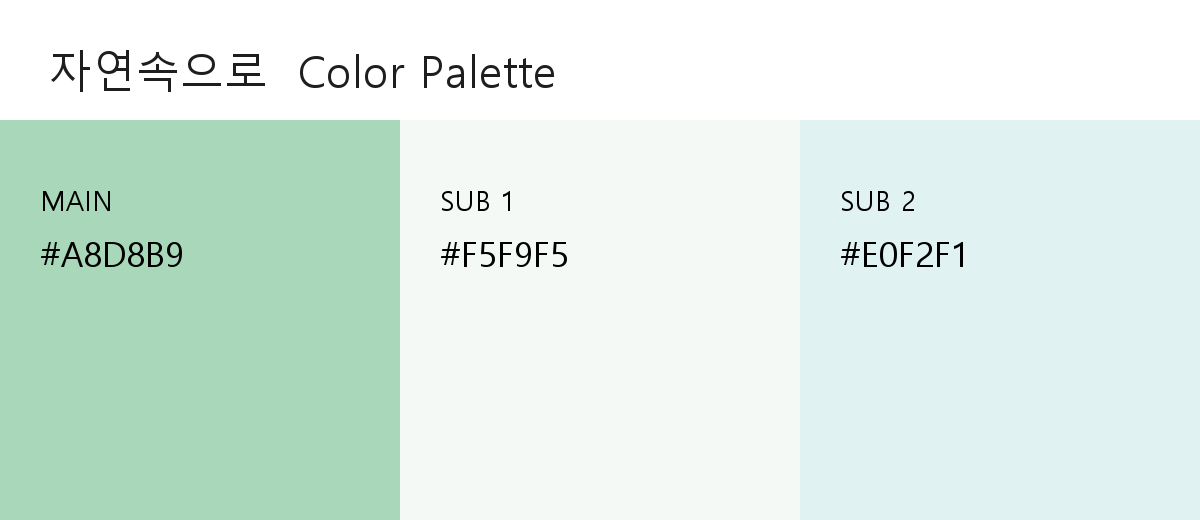
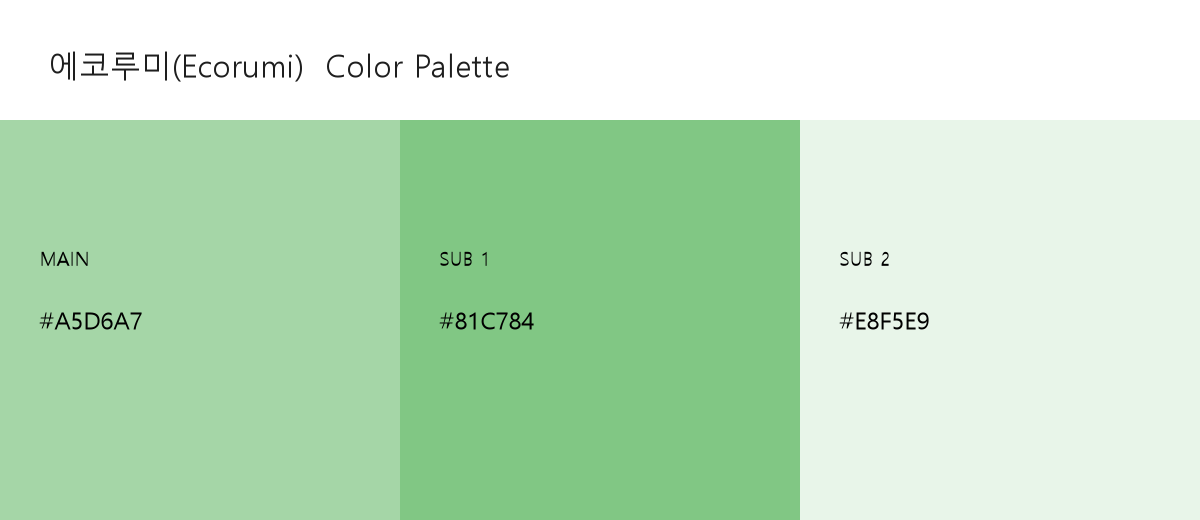
feat: matplotlib 팔레트 렌더링, 한글+영문 브랜드명 동시 생성, gitignore 정리
- generate_color_palette(): Pillow -> matplotlib(Agg 백엔드)로 교체
- BrandName 스키마에 name_en 추가, 로고 워드마크는 영문명으로 렌더링
- .gitignore를 Node.js용 항목 제거하고 프로젝트에 필요한 항목만 남김
- output/: 로고 9장(logo_NN_VV.png) 및 최신 brand_result.json 갱신

diff --git a/image.py b/image.py
@@ -1,7 +1,7 @@
-"""브랜드 이미지(로고 3종 + 컬러 팔레트) 생성 모듈.
+"""브랜드 이미지(로고 9장 + 컬러 팔레트) 생성 모듈.
 
-- generate_logos()        : OpenAI 이미지 API로 logo_01~03.png 생성
-- generate_color_palette(): 생성된 HEX 코드로 color_palette.png를 로컬에서 렌더링
+- generate_logos()        : OpenAI 이미지 API로 브랜드명 3개 x 시안 3장 = 9장 생성
+- generate_color_palette(): 생성된 HEX 코드로 color_palette.png를 matplotlib으로 렌더링
 
 import 만으로 API가 호출되지 않도록, 모든 동작은 함수 안에 들어 있습니다.
 API 키는 코드에 하드코딩하지 않고 .env의 OPENAI_API_KEY에서만 읽습니다.
@@ -12,9 +12,15 @@ import os
 from pathlib import Path
 from typing import List, Tuple
 
+import matplotlib
+matplotlib.use("Agg")  # GUI 창을 띄우지 않고 파일로만 저장하는 백엔드
+
+import matplotlib.pyplot as plt
+from matplotlib import font_manager
+from matplotlib.patches import Rectangle
+
 from dotenv import load_dotenv
 from openai import OpenAI
-from PIL import Image, ImageDraw, ImageFont
 
 # .env 파일 불러오기
 load_dotenv()
@@ -30,12 +36,8 @@ IMAGE_QUALITY = "medium"
 LOGO_NAME_COUNT = 3
 LOGO_VARIANT_COUNT = 3
 
-# 한글 라벨 렌더링용 폰트 후보 (없으면 기본 폰트로 대체)
-FONT_CANDIDATES = [
-    r"C:\Windows\Fonts\malgun.ttf",
-    "/System/Library/Fonts/AppleSDGothicNeo.ttc",
-    "/usr/share/fonts/truetype/nanum/NanumGothic.ttf",
-]
+# 한글 라벨 렌더링용 폰트 후보 (없으면 matplotlib 기본 폰트로 대체)
+FONT_CANDIDATES = ["Malgun Gothic", "AppleGothic", "NanumGothic"]
 
 
 # =====================================================================
@@ -51,15 +53,16 @@ def _get_client() -> OpenAI:
     return OpenAI(api_key=api_key)
 
 
-def _load_font(size: int) -> ImageFont.FreeTypeFont:
-    """한글이 깨지지 않는 폰트를 찾아 로드합니다."""
-    for path in FONT_CANDIDATES:
-        if Path(path).exists():
-            try:
-                return ImageFont.truetype(path, size)
-            except OSError:
-                continue
-    return ImageFont.load_default()
+def _apply_korean_font() -> None:
+    """설치된 한글 폰트를 찾아 matplotlib 기본 폰트로 지정합니다."""
+    installed = {f.name for f in font_manager.fontManager.ttflist}
+    for name in FONT_CANDIDATES:
+        if name in installed:
+            plt.rcParams["font.family"] = name
+            break
+
+    # 한글 폰트 사용 시 마이너스 기호가 깨지는 것을 방지
+    plt.rcParams["axes.unicode_minus"] = False
 
 
 def _hex_to_rgb(hex_code: str) -> Tuple[int, int, int]:
@@ -81,19 +84,21 @@ def _text_color_for(rgb: Tuple[int, int, int]) -> Tuple[int, int, int]:
     return (0, 0, 0) if luminance > 0.6 else (255, 255, 255)
 
 
-def _extract_names(brand_result: dict) -> List[Tuple[str, str]]:
-    """brand_result에서 (브랜드명, 의미) 쌍을 최대 3개까지 뽑아냅니다.
+def _extract_names(brand_result: dict) -> List[Tuple[str, str, str]]:
+    """brand_result에서 (한글명, 영문명, 의미) 쌍을 최대 3개까지 뽑아냅니다.
 
-    명세 스키마({"name":..., "meaning":...})와 옛 스키마(문자열 배열)를 모두 지원합니다.
+    영문명이 없는 옛 결과 파일이나 문자열 배열 스키마도 그대로 지원합니다.
     """
     names = brand_result.get("names") or ["Brand"]
 
-    extracted: List[Tuple[str, str]] = []
+    extracted: List[Tuple[str, str, str]] = []
     for entry in names[:LOGO_NAME_COUNT]:
         if isinstance(entry, dict):
-            extracted.append((entry.get("name", "Brand"), entry.get("meaning", "")))
+            name_ko = entry.get("name", "Brand")
+            # 영문명이 없으면 한글명을 그대로 사용합니다.
+            extracted.append((name_ko, entry.get("name_en") or name_ko, entry.get("meaning", "")))
         else:
-            extracted.append((str(entry), ""))
+            extracted.append((str(entry), str(entry), ""))
 
     return extracted
 
@@ -118,15 +123,20 @@ def _extract_colors(brand_result: dict) -> Tuple[str, List[str]]:
     return main_color, sub_colors
 
 
-def _build_prompts_for_name(brand_name: str, meaning: str, slogan: str,
+def _build_prompts_for_name(name_ko: str, name_en: str, meaning: str, slogan: str,
                             main_color: str, sub_colors: List[str]) -> List[str]:
-    """브랜드명 하나에 대해 서로 다른 스타일의 로고 프롬프트 3개를 만듭니다."""
+    """브랜드명 하나에 대해 서로 다른 스타일의 로고 프롬프트 3개를 만듭니다.
+
+    로고에 새겨지는 글자는 판독이 안정적인 영문명을 사용하고,
+    한글명은 브랜드 정체성 정보로 프롬프트에 함께 전달합니다.
+    """
     palette = f"main color {main_color}, supporting colors {', '.join(sub_colors)}"
 
     common = f"""
-Create a professional brand logo for '{brand_name}'.
+Create a professional brand logo for '{name_en}'.
 
 Brand context:
+Korean brand name: {name_ko}
 Brand meaning: {meaning}
 Brand slogan: {slogan}
 Color palette: {palette}
@@ -147,8 +157,8 @@ No watermark.
 
     return [
         common + "\nStyle: minimal abstract symbol mark only, simple geometric shapes, generous negative space.",
-        common + f"\nStyle: elegant wordmark spelling '{brand_name}' in a refined sans-serif typeface.",
-        common + f"\nStyle: circular emblem/badge combining a simple icon with the brand name '{brand_name}'.",
+        common + f"\nStyle: elegant wordmark spelling '{name_en}' in a refined sans-serif typeface.",
+        common + f"\nStyle: circular emblem/badge combining a simple icon with the brand name '{name_en}'.",
     ]
 
 
@@ -156,16 +166,17 @@ def _build_logo_plan(brand_result: dict) -> List[Tuple[int, int, str, str]]:
     """브랜드명 3개 x 시안 3개 = 총 9장의 생성 계획을 만듭니다.
 
     Returns:
-        list[tuple]: (이름 순번, 시안 순번, 브랜드명, 프롬프트) 목록
+        list[tuple]: (이름 순번, 시안 순번, 표시용 브랜드명, 프롬프트) 목록
     """
     slogan = (brand_result.get("slogans") or [""])[0]
     main_color, sub_colors = _extract_colors(brand_result)
 
     plan: List[Tuple[int, int, str, str]] = []
-    for name_index, (brand_name, meaning) in enumerate(_extract_names(brand_result), start=1):
-        prompts = _build_prompts_for_name(brand_name, meaning, slogan, main_color, sub_colors)
+    for name_index, (name_ko, name_en, meaning) in enumerate(_extract_names(brand_result), start=1):
+        prompts = _build_prompts_for_name(name_ko, name_en, meaning, slogan, main_color, sub_colors)
+        label = f"{name_ko} ({name_en})" if name_en != name_ko else name_ko
         for variant_index, prompt in enumerate(prompts[:LOGO_VARIANT_COUNT], start=1):
-            plan.append((name_index, variant_index, brand_name, prompt))
+            plan.append((name_index, variant_index, label, prompt))
 
     return plan
 
@@ -240,7 +251,7 @@ def generate_logos(brand_result: dict, output_dir: str) -> List[str]:
 def generate_color_palette(brand_result: dict, output_dir: str) -> str:
     """브랜드 컬러(main 1 + sub 2)를 시각화한 color_palette.png를 만듭니다.
 
-    API 호출 없이 Pillow로 직접 그리기 때문에 추가 비용이 들지 않습니다.
+    API 호출 없이 matplotlib으로 직접 그리기 때문에 추가 비용이 들지 않습니다.
 
     Returns:
         str: 저장된 PNG 파일 경로 (예: "output/color_palette.png")
@@ -248,40 +259,48 @@ def generate_color_palette(brand_result: dict, output_dir: str) -> str:
     out_path = Path(output_dir)
     out_path.mkdir(parents=True, exist_ok=True)
 
-    brand_name = _extract_names(brand_result)[0][0]
+    name_ko, name_en, _ = _extract_names(brand_result)[0]
+    brand_name = f"{name_ko} ({name_en})" if name_en != name_ko else name_ko
     main_color, sub_colors = _extract_colors(brand_result)
 
     swatches = [("MAIN", main_color)]
     for i, sub_hex in enumerate(sub_colors, start=1):
         swatches.append((f"SUB {i}", sub_hex))
 
-    # 캔버스 설정
-    width, height = 1200, 520
-    header_height = 120
-    canvas = Image.new("RGB", (width, height), (255, 255, 255))
-    draw = ImageDraw.Draw(canvas)
+    _apply_korean_font()
 
-    title_font = _load_font(44)
-    label_font = _load_font(28)
-    hex_font = _load_font(34)
+    # 1200 x 520 px 캔버스 (figsize * dpi)
+    fig = plt.figure(figsize=(12, 5.2), dpi=100, facecolor="white")
+    ax = fig.add_axes([0, 0, 1, 1])
+    ax.set_xlim(0, 1)
+    ax.set_ylim(0, 1)
+    ax.axis("off")
 
-    # 헤더: 브랜드명
-    draw.text((48, 40), f"{brand_name}  Color Palette", font=title_font, fill=(30, 30, 30))
+    # 헤더: 브랜드명 (상단 흰 여백 영역)
+    header_top = 0.77
+    ax.text(0.04, 0.87, f"{brand_name}  Color Palette",
+            fontsize=22, color="#1E1E1E", va="center")
 
     # 컬러 스와치를 가로로 균등 배치
-    swatch_width = width // len(swatches)
+    swatch_width = 1 / len(swatches)
     for i, (label, hex_code) in enumerate(swatches):
-        rgb = _hex_to_rgb(hex_code)
+        hex_code = str(hex_code)
         x0 = i * swatch_width
-        x1 = width if i == len(swatches) - 1 else (i + 1) * swatch_width
-        draw.rectangle([x0, header_height, x1, height], fill=rgb)
 
-        text_color = _text_color_for(rgb)
-        draw.text((x0 + 40, header_height + 60), label, font=label_font, fill=text_color)
-        draw.text((x0 + 40, header_height + 110), str(hex_code).upper(), font=hex_font, fill=text_color)
+        # HEX 형식이 깨졌을 때를 대비해 RGB로 변환한 값을 사용합니다.
+        rgb = _hex_to_rgb(hex_code)
+        face_color = tuple(channel / 255 for channel in rgb)
+        text_color = tuple(channel / 255 for channel in _text_color_for(rgb))
+
+        ax.add_patch(Rectangle((x0, 0), swatch_width, header_top,
+                               facecolor=face_color, edgecolor="none"))
+        ax.text(x0 + 0.033, 0.50, label, fontsize=14, color=text_color, va="center")
+        ax.text(x0 + 0.033, 0.38, hex_code.upper(), fontsize=17, color=text_color, va="center")
 
     file_path = out_path / "color_palette.png"
-    canvas.save(file_path, "PNG")
+    fig.savefig(file_path, format="png", facecolor=fig.get_facecolor())
+    plt.close(fig)
+
     return str(file_path)
 
 

diff --git a/brand_brief.py b/brand_brief.py
@@ -16,8 +16,9 @@ MODEL_NAME = os.getenv("OPENAI_MODEL", "gpt-4o-mini")
 # =====================================================================
 
 class BrandName(BaseModel):
-    """브랜드명 후보 하나와 그 이름에 담긴 의미"""
-    name: str = Field(description="브랜드명 후보 (예: Blooming)")
+    """브랜드명 후보 하나와 그 이름에 담긴 의미 (한글명 + 영문명)"""
+    name: str = Field(description="한글 브랜드명 후보 (예: 블루밍)")
+    name_en: str = Field(description="같은 브랜드의 영문 표기 (예: Blooming)")
     meaning: str = Field(description="이름에 담긴 의미나 유래 (예: 자연에서 피어나는 아름다움)")
 
 class BrandColors(BaseModel):
@@ -46,7 +47,7 @@ def generate_brand_text(brief: dict) -> dict:
 
     Returns:
         dict: {
-            "names": [{"name": "...", "meaning": "..."}, ...],   # 3개
+            "names": [{"name": "한글명", "name_en": "영문명", "meaning": "..."}, ...],   # 3개
             "slogans": ["...", "...", "..."],                    # 3개
             "story": "브랜드 스토리 본문...",
             "colors": {"main": "#RRGGBB", "sub": ["#RRGGBB", "#RRGGBB"]}
@@ -80,6 +81,11 @@ def generate_brand_text(brief: dict) -> dict:
     1. 브랜드명(names):
        - 정확히 3개만 생성하세요.
        - 발음하기 쉽고, 브랜드 컨셉 및 키워드를 은유적 혹은 함축적으로 나타내는 감각적인 이름이어야 합니다.
+       - 각 후보마다 한글 브랜드명(name)과 영문 브랜드명(name_en)을 함께 만들어 주세요.
+         · 두 이름은 같은 브랜드를 가리켜야 하며, 발음이나 의미가 자연스럽게 이어져야 합니다.
+           (예: 블루밍 / Blooming, 소소담 / Sosodam)
+         · 영문명은 로마자 표기만 그대로 옮긴 어색한 형태가 되지 않도록, 해외에서도 브랜드로
+           읽히는 자연스러운 표기로 다듬어 주세요.
        - 각 이름마다 그 이름에 담긴 의미(meaning)를 한 문장으로 설명해 주세요.
        - 경쟁사와 뚜렷이 구별되는 이름이어야 하며, 경쟁사 이름을 그대로 쓰지 마세요.
     2. 슬로건(slogans):

diff --git a/main.py b/main.py
@@ -56,7 +56,10 @@ def print_summary(brand_result: dict) -> None:
     """생성 결과를 콘솔에 보기 좋게 출력합니다."""
     print("\n[브랜드명 후보]")
     for index, item in enumerate(brand_result["names"], start=1):
-        print(f"  {index}. {item['name']}: {item['meaning']}")
+        # 영문명이 없는 옛 결과 파일도 그대로 출력되도록 처리
+        name_en = item.get("name_en")
+        display = f"{item['name']} ({name_en})" if name_en else item["name"]
+        print(f"  {index}. {display}: {item['meaning']}")
 
     print("\n[슬로건]")
     for slogan in brand_result["slogans"]:

diff --git a/README.md b/README.md
@@ -1,11 +1,11 @@
 # 브랜드 아이덴티티 생성기 (A2-1)
 
-브랜드 브리프(JSON)를 입력하면 OpenAI API로 **브랜드명 3개 / 슬로건 3개 / 브랜드 스토리 / 컬러 팔레트**를
+브랜드 브리프(JSON)를 입력하면 OpenAI API로 **브랜드명 3개(한글+영문) / 슬로건 3개 / 브랜드 스토리 / 컬러 팔레트**를
 생성하고, 그 결과를 바탕으로 **컬러 팔레트 1장 + 로고 시안 9장**을 이미지로 만들어 주는 프로그램입니다.
 
 - 텍스트 생성: OpenAI Structured Outputs (Pydantic 스키마로 출력 형식 고정)
 - 이미지 생성: OpenAI Images API (`gpt-image-2`)
-- 컬러 팔레트: Pillow 로컬 렌더링 (API 비용 없음)
+- 컬러 팔레트: matplotlib 로컬 렌더링 (API 비용 없음)
 
 저장소: https://github.com/bonbonjyl2-web/A2-1-Brand-Identity
 
@@ -33,7 +33,7 @@ A2-1-Brand-Identity/
 Python 3.12 기준입니다.
 
 ```bash
-pip install openai python-dotenv pydantic Pillow
+pip install openai python-dotenv pydantic matplotlib
 ```
 
 ## API 키 설정
@@ -128,7 +128,7 @@ python image.py          # 저장된 brand_result.json으로 이미지만 생성
 ```json
 {
   "names": [
-    { "name": "Blooming", "meaning": "자연에서 피어나는 아름다움" }
+    { "name": "블루밍", "name_en": "Blooming", "meaning": "자연에서 피어나는 아름다움" }
   ],
   "slogans": ["일상에 자연을 담다", "피부가 숨쉬는 순간", "자연 그대로"],
   "story": "브랜드 스토리...",
@@ -138,6 +138,9 @@ python image.py          # 저장된 brand_result.json으로 이미지만 생성
   }
 }
 ```
+
+브랜드명은 한글명(`name`)과 영문명(`name_en`)이 한 쌍으로 생성됩니다.
+로고에 새겨지는 글자는 판독이 안정적인 영문명을 쓰고, 한글명은 프롬프트에 브랜드 정체성 정보로 함께 전달됩니다.
 
 `names` 3개, `slogans` 3개, `colors.sub` 2개가 항상 보장됩니다.
 Pydantic 스키마로 출력을 강제하고, 코드에서 개수를 한 번 더 잘라내기 때문입니다.
@@ -162,7 +165,7 @@ Pydantic 스키마로 출력을 강제하고, 코드에서 개수를 한 번 더
 
 ### `generate_color_palette(brand_result: dict, output_dir: str) -> str` — `image.py`
 
-- **출력**: 생성된 `color_palette.png` 경로
+- **출력**: 생성된 `color_palette.png` 경로 (matplotlib으로 1200×520px 렌더링)
 
 생성 장수를 바꾸려면 `image.py` 상단의 상수를 조정하세요.
 
